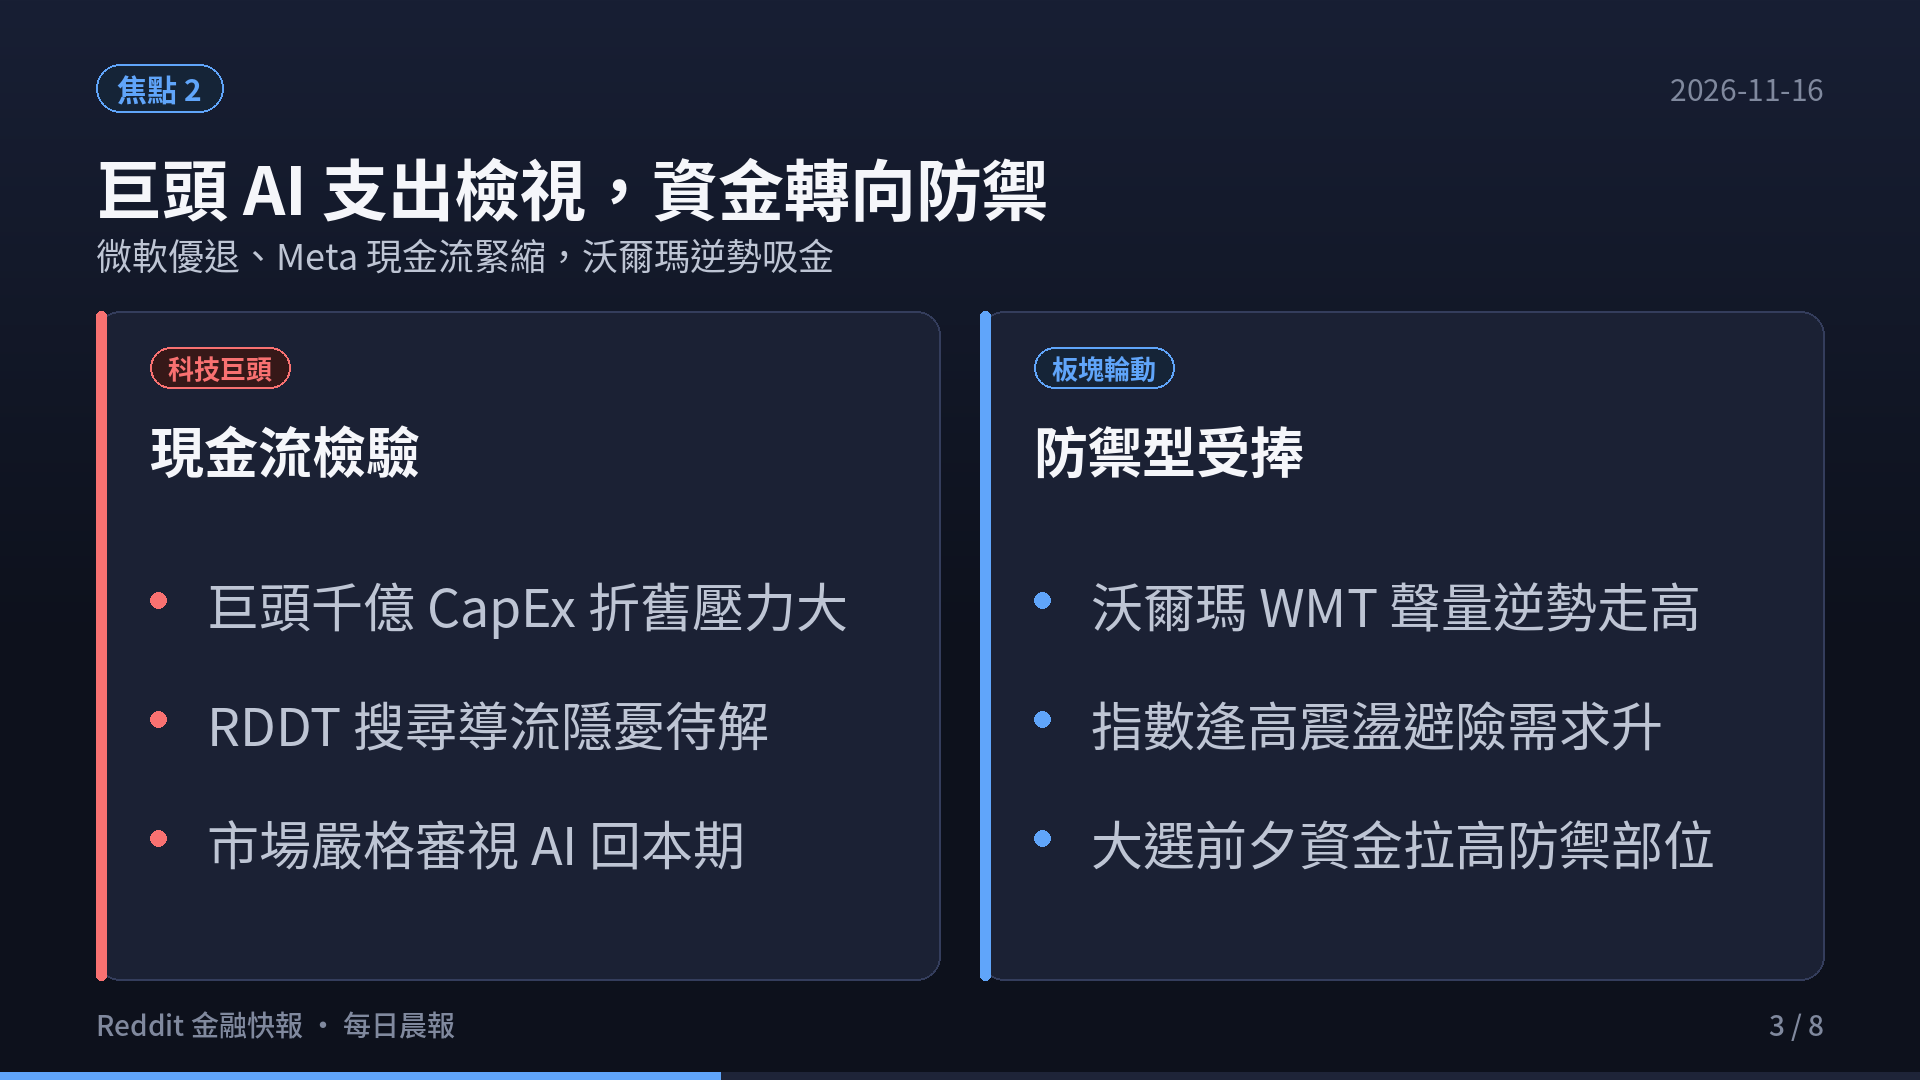
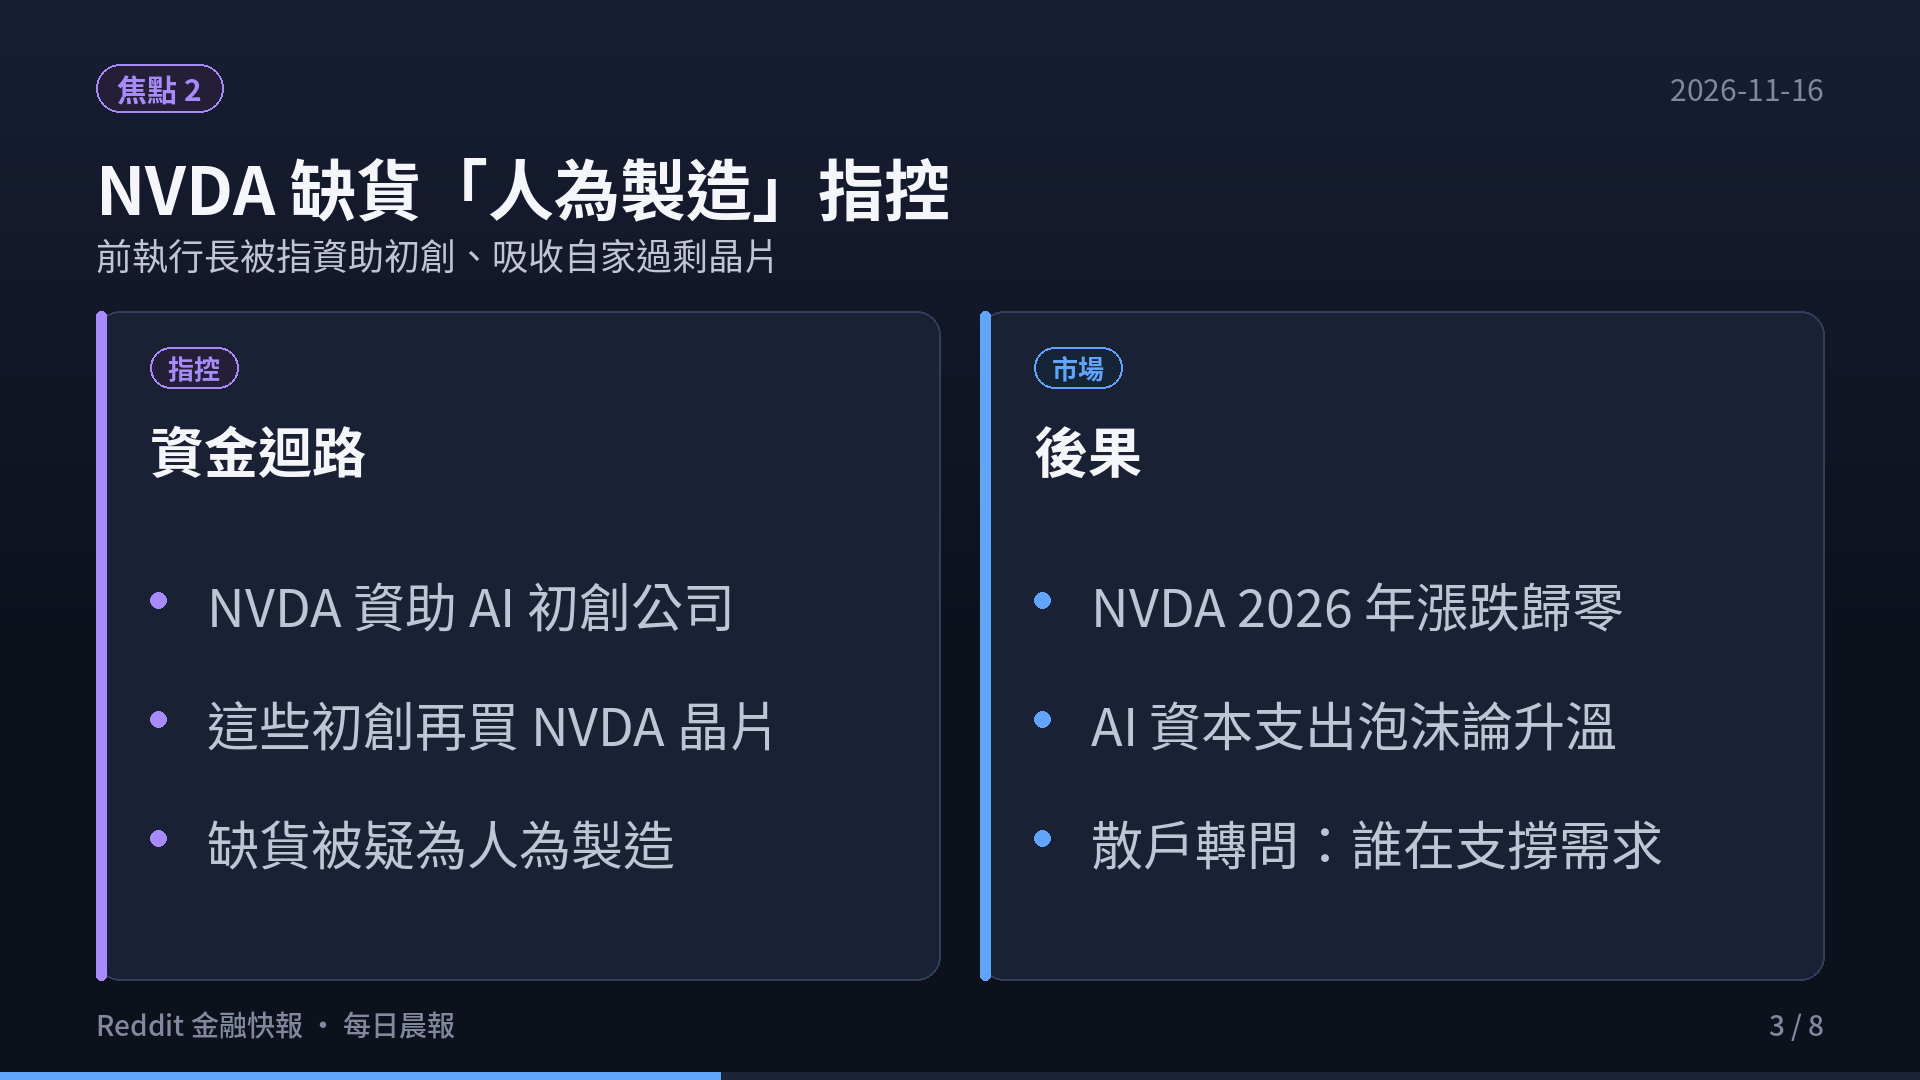
feat(blog): publish evidence-based Reddit finance daily 2026-11-16 09:00 (NVDA CEO transition) with slides and video

diff --git a/content/reddit-daily-summaries/index.md b/content/reddit-daily-summaries/index.md
@@ -1,21 +1,20 @@
 ---
-title: "Reddit 金融快報 · 2026-11-16：美股五大核心板塊最新精華與聲量榜"
-date: 2026-11-16T06:00:00+08:00
+title: "Reddit 金融快報 · 2026-11-16：NVIDIA 執行長交棒風暴與五大核心板塊精華（09:00 更新版）"
+date: 2026-11-16T09:00:00+08:00
 draft: false
 image: cover.png
 cover: "https://ckw19810413.github.io/reddit-daily-summaries/cover.png"
 url: "/reddit-daily-summaries/"
 aliases:
-  - "/blog/2026-11-16-reddit-finance-daily/"
-  - "/reddit-daily-summaries/2026-11-16/"
-description: "Reddit 美股五大核心板塊近 3 日熱門話題 Top 3 與 ApeWisdom 即時熱度監控。"
+  - "/blog/2026-11-16-0900-reddit-finance-daily/"
+description: "NVIDIA 執行長交棒、AI 晶片缺貨爭議、通膨與美債利率——Reddit 五大核心板塊近 3 日熱門話題 Top 3（09:00 證據版）。"
 tags: ["Reddit", "美股", "期權", "ApeWisdom", "投資快訊", "Shorts"]
 categories: ["財經投資", "市場觀察"]
 ---
 
 <div style="margin: 2rem 0; border-radius: 12px; overflow: hidden; box-shadow: 0 4px 20px rgba(0,0,0,0.12); border: 1px solid rgba(128,128,128,0.2);">
   <video controls width="100%" poster="s01.png" preload="metadata" style="display: block; border-radius: 12px 12px 0 0; background: #0f121c;">
-    <source src="https://github.com/ckw19810413/ckw19810413.github.io/releases/download/media-reddit-finance-daily/reddit-finance-2026-11-16.mp4" type="video/mp4">
+    <source src="https://github.com/ckw19810413/ckw19810413.github.io/releases/download/media-reddit-finance-daily/reddit-finance-2026-11-16-0900.mp4" type="video/mp4">
     您的瀏覽器不支援直接播放 MP4 影片。
   </video>
   <div style="background: rgba(0,0,0,0.03); padding: 10px 16px; font-size: 0.9rem; color: var(--card-text-color-secondary, #666); text-align: center; border-top: 1px solid rgba(128,128,128,0.15);">
@@ -23,41 +22,65 @@ categories: ["財經投資", "市場觀察"]
   </div>
 </div>
 
-# 每日 6:00AM Reddit 金融財經板塊最新資訊彙整報告（2026-11-16）
+# 每日 6:00AM Reddit 金融財經板塊最新資訊彙整報告（2026-11-16 09:00 更新版）
 
-本報告完成對五大核心財經看板（**r/wallstreetbets**、**r/stocks**、**r/investing**、**r/options**、**r/StockMarket**）近 3 日熱門話題、社群情緒、量化聲量與衍生品異動之全面監控。
+> 本頁為當日 09:00 依實際抓取的 RSS 與 ApeWisdom 數據更新之證據版本，取代上午 06:00 版（06:00 版保留於 [/blog/2026-11-16-reddit-finance-daily/](/blog/2026-11-16-reddit-finance-daily/) 作為原始快照）。
 
-> **監控看板**：r/wallstreetbets、r/stocks、r/investing、r/options、r/StockMarket  
-> **觀測期間**：近 72 小時  
-> **數據來源**：Reddit 核心社群實時討論流、ApeWisdom 全網即時熱度監控 API  
+> **監控看板**：r/wallstreetbets · r/stocks · r/investing · r/options · r/StockMarket
+> **觀測期間**：近 72 小時（2026-11-13 ～ 2026-11-16）
+> **資料來源**：Reddit top-week 討論串（RSS 實測）＋ ApeWisdom 即時聲量 API（2026-11-16 09:05 快照）
+> **方法**：依 subreddit top-week 貼文排序 + ApeWisdom 24h 提及量變化，選出各板近 3 日討論最熱之 3 大主題。
 
-## 🎯 跨板塊三大核心主題
-1. **超微（AMD）Q3 財報噴出突破，資料中心翻倍帶動晶片股多頭大軋空**
-2. **科技巨頭千億 AI 資本開支（CapEx）進入實質檢驗期，資金轉向防禦與現金**
-3. **上游半導體定價權依舊穩固，英特爾（INTC）多空末日期權對決白熱化**
+## 🎯 跨板塊三大核心主題（本週主導敘事）
+
+1. **NVIDIA 執行長交棒風暴**：Jensen Huang 宣布 stepping down，CFO Colette Kress 任代理 CEO；「NVIDIA board urged by two major investors to consider Jensen Huang's return」、NYT 報導其私生活風波、Bessent 公開「torch」Jensen、Trump 喊 Tim Cook 接班——五大板塊全部被這串新聞洗版，WSB 提及量 277→356 居冠。
+2. **AI 晶片缺貨「人為製造」指控**：「So the 'shortage' was NVDA funding the startups that buy NVDA chips」——前執行長被指資助 AI 初創吸收過剩晶片；r/stocks 與 r/StockMarket 同週連發多貼。
+3. **通膨回溫 + 公債殖利率突破 5%**：10 月 PPI 年率 6.5%（近 4 年高點）、10-year US Bond Yield 突破 5.13%、Fed 的 Daly 稱「需要更多加息」，r/investing 理性派開始重估利率風險。
 
 ## 📊 五大核心板塊近 3 日最熱話題 Top 3
-### 1. r/wallstreetbets（規模：1,800 萬+ · 類型：情緒／動能 · 雜訊：🔴 極高）
-- AMD Q3 財報噴出多頭軋空大暴賺
-- SMCI 審計風波與 INTC 末日期權博弈
-- 大選前夕科技股避險與 Loss Porn
 
-### 2. r/stocks（規模：約 900 萬 · 類型：綜合討論／個股研討 · 🟡 中雜訊）
-- AMD Q3 財報深度拆解與資料中心市佔
-- 科技巨頭千億 CapEx 折舊對淨利潤之衝擊
-- 資金湧向防禦型權值股（沃爾瑪 WMT）
+### 1. r/wallstreetbets（1,800 萬+ · 情緒/動能 · 雜訊 🔴）
+- **WSB-① NVIDIA CEO 交棒與 Jensen Huang 風暴**：`NVIDIA Announces CEO Transit`、`Jensen Huang entering NVIDIA Office`、`NVIDIA board meetings`、`NVIDIA Is NVIDIA Because Of Jensen`（員工論壇文）連週霸榜；ApeWisdom NVDA 提及 277→356（upvotes 7,067）全版第一。
+- **WSB-② NVDA 缺貨人為製造論**：`So the "shortage" was NVDA funding the startups that buy NVDA chips`（11-14）——指控前執行長以投資換買自家公司晶片，引發「AI capex 泡沫」連環討論。
+- **WSB-③ FAA 停飛 + 市場雜音**：`FAA Grounds Flights`（11-13）與 YOLO 貼文（`$1,300 to $1,000,000`、Loss porn、`Who needs GTA when we have this`）為 NVDA 之外的次要熱點。
 
-### 3. r/investing（規模：約 300 萬 · 類型：中長期／資產配置 · 🟢 低雜訊）
-- SGOV 與超短天期美債 ETF 鎖定無風險利息
-- VTI vs 科技巨頭權重集中度風險探討
-- 生成式 AI 對開放內容平台導流之長期重塑
+### 2. r/stocks（約 900 萬 · 綜合討論 · 雜訊 🟡）
+- **STK-① Jensen Huang stepping down 及其後續**：`Nvidia CEO Jensen Huang is stepping down as CEO`、`Nvidia stock slides after NYT report alleges Jensen Huang had a second affair`、`Jensen Huang discusses comeback as Nvidia CEO with allies`（11-15）、`Bessent on Fox torching Jensen Huang`（11-15）、`Trump calls for Tim Cook to replace Jensen Huang`。
+- **STK-② 通膨熱於預期 + PPI 6.5%**：`US Inflation Comes In Hotter Than Expected`、`Wholesale prices rose 0.3% in October, annual rate 6.5%（近 4 年最高）`、`Real inflation in America seems to be at least 8%`。
+- **STK-③ Anthropic IPO 題材**：`Anthropic sets price range $70–$78`（11-10）、`The Anthropic IPO isn't worth it for the average retail investor`、`Anthropic is a fucking disaster`（11-15）；同期 TSMC 投資 Anthropic 與 OpenAI、Berkshire 創歷史新高。
 
-### 4. r/options（規模：約 100 萬+ · 類型：衍生品／交易策略 · 🟡 中雜訊）
-- 財報密集週與大選前夕之 IV Crush 避險解析
-- Theta Gang 垂直價差與鐵禿鷹防禦指南
-- TQQQ、ASTS 與高波動標的異常期權偏斜
+### 3. r/investing（約 300 萬 · 中長期/資產配置 · 雜訊 🟢）
+- **INV-① NVDA 抄底 vs 觀望**：`Jensen Huang steps down as NVIDIA CEO, CFO Colette Kress named interim`（11-12）、`Bessent Urges Nvidia to Pick Outsider`、`NVDA: buying the dip or waiting?`（11-13）——理性派以估值與 AI capex 折舊為軸。
+- **INV-② 利率風險：10y 美債 > 5.13% + 超大規模公債供應**：`10-year US Bond Yield Breaks 5.13%`（11-15）、`Hyperscalers' Massive $296B Bond Sale`（11-15）——AI 建廠債 + 公債雙重供給壓力。
+- **INV-③ 配置辯論：Berkshire 新高與 RSP vs SPY**：`Berkshire to new all-time high with Q4 19% rally`（11-15）、`What is the difference between RSP and SPY?`、`Japan's monetary policy`（BOJ 轉向對資產配置之影響）。
 
-### 5. r/StockMarket（規模：約 300 萬 · 類型：新聞圖表／技術分析 · 🟡 中雜訊）
-- 費半成分股與 AMD 突破下降趨勢線
-- 標普 500 (SPY) 與那斯達克 (QQQ) 關鍵支撐攻防
-- 大選年季節性歷史波動與板塊輪動矩陣
+### 4. r/options（約 100 萬+ · 衍生品 · 雜訊 🟡）
+- **OPT-① NVDA 期權災難文洗版**：`Sold puts on NVDA`、`NVDA puts assigned, 7x in 5 months`、`NVDA options - $149 & $130 puts, am I cooked?`（11-15）、`Nvidia $200 calls expire next Friday... down $13,000`；ApeWisdom NVDA 提及 0→25 暴增居 options 版第一。
+- **OPT-② PFOF 應被禁止之政策辯論**：`PFOF Should Be Banned`（11-14）——散戶對交易費結構與做市商利得之不滿升溫。
+- **OPT-③ TSLA 與 0DTE 策略戰**：`Time to Short $TSLA Again`、`Papakong88 NDX 0DTE strategy results (10/30/26 and 11/9/26)`、`0DTE Spx Butterfly`；另 `ANT (Anthropic) IPO S-1 lockup analysis` 關注上市後鎖定期解鎖賣壓。
+
+### 5. r/StockMarket（約 300 萬+ · 新聞彙整 · 雜訊 🟡）
+- **SM-① Jensen Huang「被辭」與掩蓋論**：`Jensen Huang Lost His Job. Wall Street Lost Its Biggest Prize`（11-15）、`Retaliation: Bessent Says Nvidia Needs "Dramatic Shakeup"`（11-15）、`Jensen Huang discusses comeback as Nvidia CEO, FT reports`（11-15）——「誰逼退 Huang」成為盤中主議题。
+- **SM-② PPI 6.5% + Fed 官鷹派**：`Wholesale prices rose 0.3%... highest in nearly four years`（11-13，同貼出現 3 次）、`Fed's Daly Says More Rate Hikes Needed`（11-13）。
+- **SM-③ 散戶接 NVDA 回調 + 中國 AI 數據中心潮**：`Retail investors buying NVDA dip in enormous numbers`（11-13）、`While many Americans resist, China embraces AI data center boom`（11-13）；另有 `Japanese stock market reverts to fax machine amid Microsoft outage` 等雜訊。
+
+## 🔥 ApeWisdom 24h 聲量榜（2026-11-16 09:05 快照）
+
+| 榜 | 標的 | 24h 前→現 | 備註 |
+|---|---|---|---|
+| WSB #1 | NVDA | 277 → **356**（upvotes 7,067） | CEO 交棒 + 缺貨爭議，全板第一 |
+| WSB | ASML | 1 → **15** ⚡ | 半導設備端跟著 NVDA 敘事發酵 |
+| stocks #1 | NVDA | 39 → **43** | stepping down 主線 |
+| stocks #2 | ASML | 0 → **13** ⚡ | 同步發酵 |
+| options #1 | NVDA | 0 → **25** ⚡ | 賣 put 被指派 / 買 call 歸零哭聲 |
+| investing #1 | VOO | 8 → **15** | 理性派轉守指數 ETF |
+
+## ⚠ 判讀（依輸入檔「怎麼讀」規則）
+
+1. **WSB 爆量 + 公司同時 S-3/ATM**：本週 NVDA 提及量雖爆量，目前無公司端增資文件訊號；但「NVDA 資助初創吸收晶片」指控若坐實，屬敘事層級風險。
+2. **擴散到最後一群人**：r/investing、r/options 已加入 NVDA 抄底/空頭之戰（Berkshire、VOO 同版出現），情緒擴散中，接近事件交易尾段。
+3. **交易所/央行公告優先**：10y 美債 > 5.13% 與 PPI 6.5% 屬硬數據，優先於貼文情緒；Fed Daly 鷹派言論提高「更多加息」機率。
+4. **陰謀論比例上升**：「Jensen 被辭是掩蓋」「缺貨是人為」已進入信仰階段，非交易階段——留意但不下重注。
+
+> **免責聲明**：本內容為社群資訊彙整，非投資建議。所有貼文鏈見 work/ 目錄原始 RSS 快照與 ApeWisdom JSON。
+

diff --git a/content/blog/2026-11-16-0900-reddit-finance-daily/index.md b/content/blog/2026-11-16-0900-reddit-finance-daily/index.md
@@ -1,0 +1,85 @@
+---
+title: "Reddit 金融快報 · 2026-11-16：NVIDIA 執行長交棒風暴與五大核心板塊精華（09:00 更新版）"
+date: 2026-11-16T09:00:00+08:00
+draft: false
+image: cover.png
+cover: "https://ckw19810413.github.io/blog/2026-11-16-0900-reddit-finance-daily/cover.png"
+
+
+description: "NVIDIA 執行長交棒、AI 晶片缺貨爭議、通膨與美債利率——Reddit 五大核心板塊近 3 日熱門話題 Top 3（09:00 證據版）。"
+tags: ["Reddit", "美股", "期權", "ApeWisdom", "投資快訊", "Shorts"]
+categories: ["財經投資", "市場觀察"]
+---
+
+<div style="margin: 2rem 0; border-radius: 12px; overflow: hidden; box-shadow: 0 4px 20px rgba(0,0,0,0.12); border: 1px solid rgba(128,128,128,0.2);">
+  <video controls width="100%" poster="s01.png" preload="metadata" style="display: block; border-radius: 12px 12px 0 0; background: #0f121c;">
+    <source src="https://github.com/ckw19810413/ckw19810413.github.io/releases/download/media-reddit-finance-daily/reddit-finance-2026-11-16-0900.mp4" type="video/mp4">
+    您的瀏覽器不支援直接播放 MP4 影片。
+  </video>
+  <div style="background: rgba(0,0,0,0.03); padding: 10px 16px; font-size: 0.9rem; color: var(--card-text-color-secondary, #666); text-align: center; border-top: 1px solid rgba(128,128,128,0.15);">
+    🎬 <strong>60 秒晨間快報影音動態版</strong>（含 AI 摘要朗讀語音與專屬背景音樂）
+  </div>
+</div>
+
+# 每日 6:00AM Reddit 金融財經板塊最新資訊彙整報告（2026-11-16 09:00 更新版）
+
+> 本頁為當日 09:00 依實際抓取的 RSS 與 ApeWisdom 數據更新之證據版本，取代上午 06:00 版（06:00 版保留於 [/blog/2026-11-16-reddit-finance-daily/](/blog/2026-11-16-reddit-finance-daily/) 作為原始快照）。
+
+> **監控看板**：r/wallstreetbets · r/stocks · r/investing · r/options · r/StockMarket
+> **觀測期間**：近 72 小時（2026-11-13 ～ 2026-11-16）
+> **資料來源**：Reddit top-week 討論串（RSS 實測）＋ ApeWisdom 即時聲量 API（2026-11-16 09:05 快照）
+> **方法**：依 subreddit top-week 貼文排序 + ApeWisdom 24h 提及量變化，選出各板近 3 日討論最熱之 3 大主題。
+
+## 🎯 跨板塊三大核心主題（本週主導敘事）
+
+1. **NVIDIA 執行長交棒風暴**：Jensen Huang 宣布 stepping down，CFO Colette Kress 任代理 CEO；「NVIDIA board urged by two major investors to consider Jensen Huang's return」、NYT 報導其私生活風波、Bessent 公開「torch」Jensen、Trump 喊 Tim Cook 接班——五大板塊全部被這串新聞洗版，WSB 提及量 277→356 居冠。
+2. **AI 晶片缺貨「人為製造」指控**：「So the 'shortage' was NVDA funding the startups that buy NVDA chips」——前執行長被指資助 AI 初創吸收過剩晶片；r/stocks 與 r/StockMarket 同週連發多貼。
+3. **通膨回溫 + 公債殖利率突破 5%**：10 月 PPI 年率 6.5%（近 4 年高點）、10-year US Bond Yield 突破 5.13%、Fed 的 Daly 稱「需要更多加息」，r/investing 理性派開始重估利率風險。
+
+## 📊 五大核心板塊近 3 日最熱話題 Top 3
+
+### 1. r/wallstreetbets（1,800 萬+ · 情緒/動能 · 雜訊 🔴）
+- **WSB-① NVIDIA CEO 交棒與 Jensen Huang 風暴**：`NVIDIA Announces CEO Transit`、`Jensen Huang entering NVIDIA Office`、`NVIDIA board meetings`、`NVIDIA Is NVIDIA Because Of Jensen`（員工論壇文）連週霸榜；ApeWisdom NVDA 提及 277→356（upvotes 7,067）全版第一。
+- **WSB-② NVDA 缺貨人為製造論**：`So the "shortage" was NVDA funding the startups that buy NVDA chips`（11-14）——指控前執行長以投資換買自家公司晶片，引發「AI capex 泡沫」連環討論。
+- **WSB-③ FAA 停飛 + 市場雜音**：`FAA Grounds Flights`（11-13）與 YOLO 貼文（`$1,300 to $1,000,000`、Loss porn、`Who needs GTA when we have this`）為 NVDA 之外的次要熱點。
+
+### 2. r/stocks（約 900 萬 · 綜合討論 · 雜訊 🟡）
+- **STK-① Jensen Huang stepping down 及其後續**：`Nvidia CEO Jensen Huang is stepping down as CEO`、`Nvidia stock slides after NYT report alleges Jensen Huang had a second affair`、`Jensen Huang discusses comeback as Nvidia CEO with allies`（11-15）、`Bessent on Fox torching Jensen Huang`（11-15）、`Trump calls for Tim Cook to replace Jensen Huang`。
+- **STK-② 通膨熱於預期 + PPI 6.5%**：`US Inflation Comes In Hotter Than Expected`、`Wholesale prices rose 0.3% in October, annual rate 6.5%（近 4 年最高）`、`Real inflation in America seems to be at least 8%`。
+- **STK-③ Anthropic IPO 題材**：`Anthropic sets price range $70–$78`（11-10）、`The Anthropic IPO isn't worth it for the average retail investor`、`Anthropic is a fucking disaster`（11-15）；同期 TSMC 投資 Anthropic 與 OpenAI、Berkshire 創歷史新高。
+
+### 3. r/investing（約 300 萬 · 中長期/資產配置 · 雜訊 🟢）
+- **INV-① NVDA 抄底 vs 觀望**：`Jensen Huang steps down as NVIDIA CEO, CFO Colette Kress named interim`（11-12）、`Bessent Urges Nvidia to Pick Outsider`、`NVDA: buying the dip or waiting?`（11-13）——理性派以估值與 AI capex 折舊為軸。
+- **INV-② 利率風險：10y 美債 > 5.13% + 超大規模公債供應**：`10-year US Bond Yield Breaks 5.13%`（11-15）、`Hyperscalers' Massive $296B Bond Sale`（11-15）——AI 建廠債 + 公債雙重供給壓力。
+- **INV-③ 配置辯論：Berkshire 新高與 RSP vs SPY**：`Berkshire to new all-time high with Q4 19% rally`（11-15）、`What is the difference between RSP and SPY?`、`Japan's monetary policy`（BOJ 轉向對資產配置之影響）。
+
+### 4. r/options（約 100 萬+ · 衍生品 · 雜訊 🟡）
+- **OPT-① NVDA 期權災難文洗版**：`Sold puts on NVDA`、`NVDA puts assigned, 7x in 5 months`、`NVDA options - $149 & $130 puts, am I cooked?`（11-15）、`Nvidia $200 calls expire next Friday... down $13,000`；ApeWisdom NVDA 提及 0→25 暴增居 options 版第一。
+- **OPT-② PFOF 應被禁止之政策辯論**：`PFOF Should Be Banned`（11-14）——散戶對交易費結構與做市商利得之不滿升溫。
+- **OPT-③ TSLA 與 0DTE 策略戰**：`Time to Short $TSLA Again`、`Papakong88 NDX 0DTE strategy results (10/30/26 and 11/9/26)`、`0DTE Spx Butterfly`；另 `ANT (Anthropic) IPO S-1 lockup analysis` 關注上市後鎖定期解鎖賣壓。
+
+### 5. r/StockMarket（約 300 萬+ · 新聞彙整 · 雜訊 🟡）
+- **SM-① Jensen Huang「被辭」與掩蓋論**：`Jensen Huang Lost His Job. Wall Street Lost Its Biggest Prize`（11-15）、`Retaliation: Bessent Says Nvidia Needs "Dramatic Shakeup"`（11-15）、`Jensen Huang discusses comeback as Nvidia CEO, FT reports`（11-15）——「誰逼退 Huang」成為盤中主議题。
+- **SM-② PPI 6.5% + Fed 官鷹派**：`Wholesale prices rose 0.3%... highest in nearly four years`（11-13，同貼出現 3 次）、`Fed's Daly Says More Rate Hikes Needed`（11-13）。
+- **SM-③ 散戶接 NVDA 回調 + 中國 AI 數據中心潮**：`Retail investors buying NVDA dip in enormous numbers`（11-13）、`While many Americans resist, China embraces AI data center boom`（11-13）；另有 `Japanese stock market reverts to fax machine amid Microsoft outage` 等雜訊。
+
+## 🔥 ApeWisdom 24h 聲量榜（2026-11-16 09:05 快照）
+
+| 榜 | 標的 | 24h 前→現 | 備註 |
+|---|---|---|---|
+| WSB #1 | NVDA | 277 → **356**（upvotes 7,067） | CEO 交棒 + 缺貨爭議，全板第一 |
+| WSB | ASML | 1 → **15** ⚡ | 半導設備端跟著 NVDA 敘事發酵 |
+| stocks #1 | NVDA | 39 → **43** | stepping down 主線 |
+| stocks #2 | ASML | 0 → **13** ⚡ | 同步發酵 |
+| options #1 | NVDA | 0 → **25** ⚡ | 賣 put 被指派 / 買 call 歸零哭聲 |
+| investing #1 | VOO | 8 → **15** | 理性派轉守指數 ETF |
+
+## ⚠ 判讀（依輸入檔「怎麼讀」規則）
+
+1. **WSB 爆量 + 公司同時 S-3/ATM**：本週 NVDA 提及量雖爆量，目前無公司端增資文件訊號；但「NVDA 資助初創吸收晶片」指控若坐實，屬敘事層級風險。
+2. **擴散到最後一群人**：r/investing、r/options 已加入 NVDA 抄底/空頭之戰（Berkshire、VOO 同版出現），情緒擴散中，接近事件交易尾段。
+3. **交易所/央行公告優先**：10y 美債 > 5.13% 與 PPI 6.5% 屬硬數據，優先於貼文情緒；Fed Daly 鷹派言論提高「更多加息」機率。
+4. **陰謀論比例上升**：「Jensen 被辭是掩蓋」「缺貨是人為」已進入信仰階段，非交易階段——留意但不下重注。
+
+> **免責聲明**：本內容為社群資訊彙整，非投資建議。所有貼文鏈見 work/ 目錄原始 RSS 快照與 ApeWisdom JSON。
+
